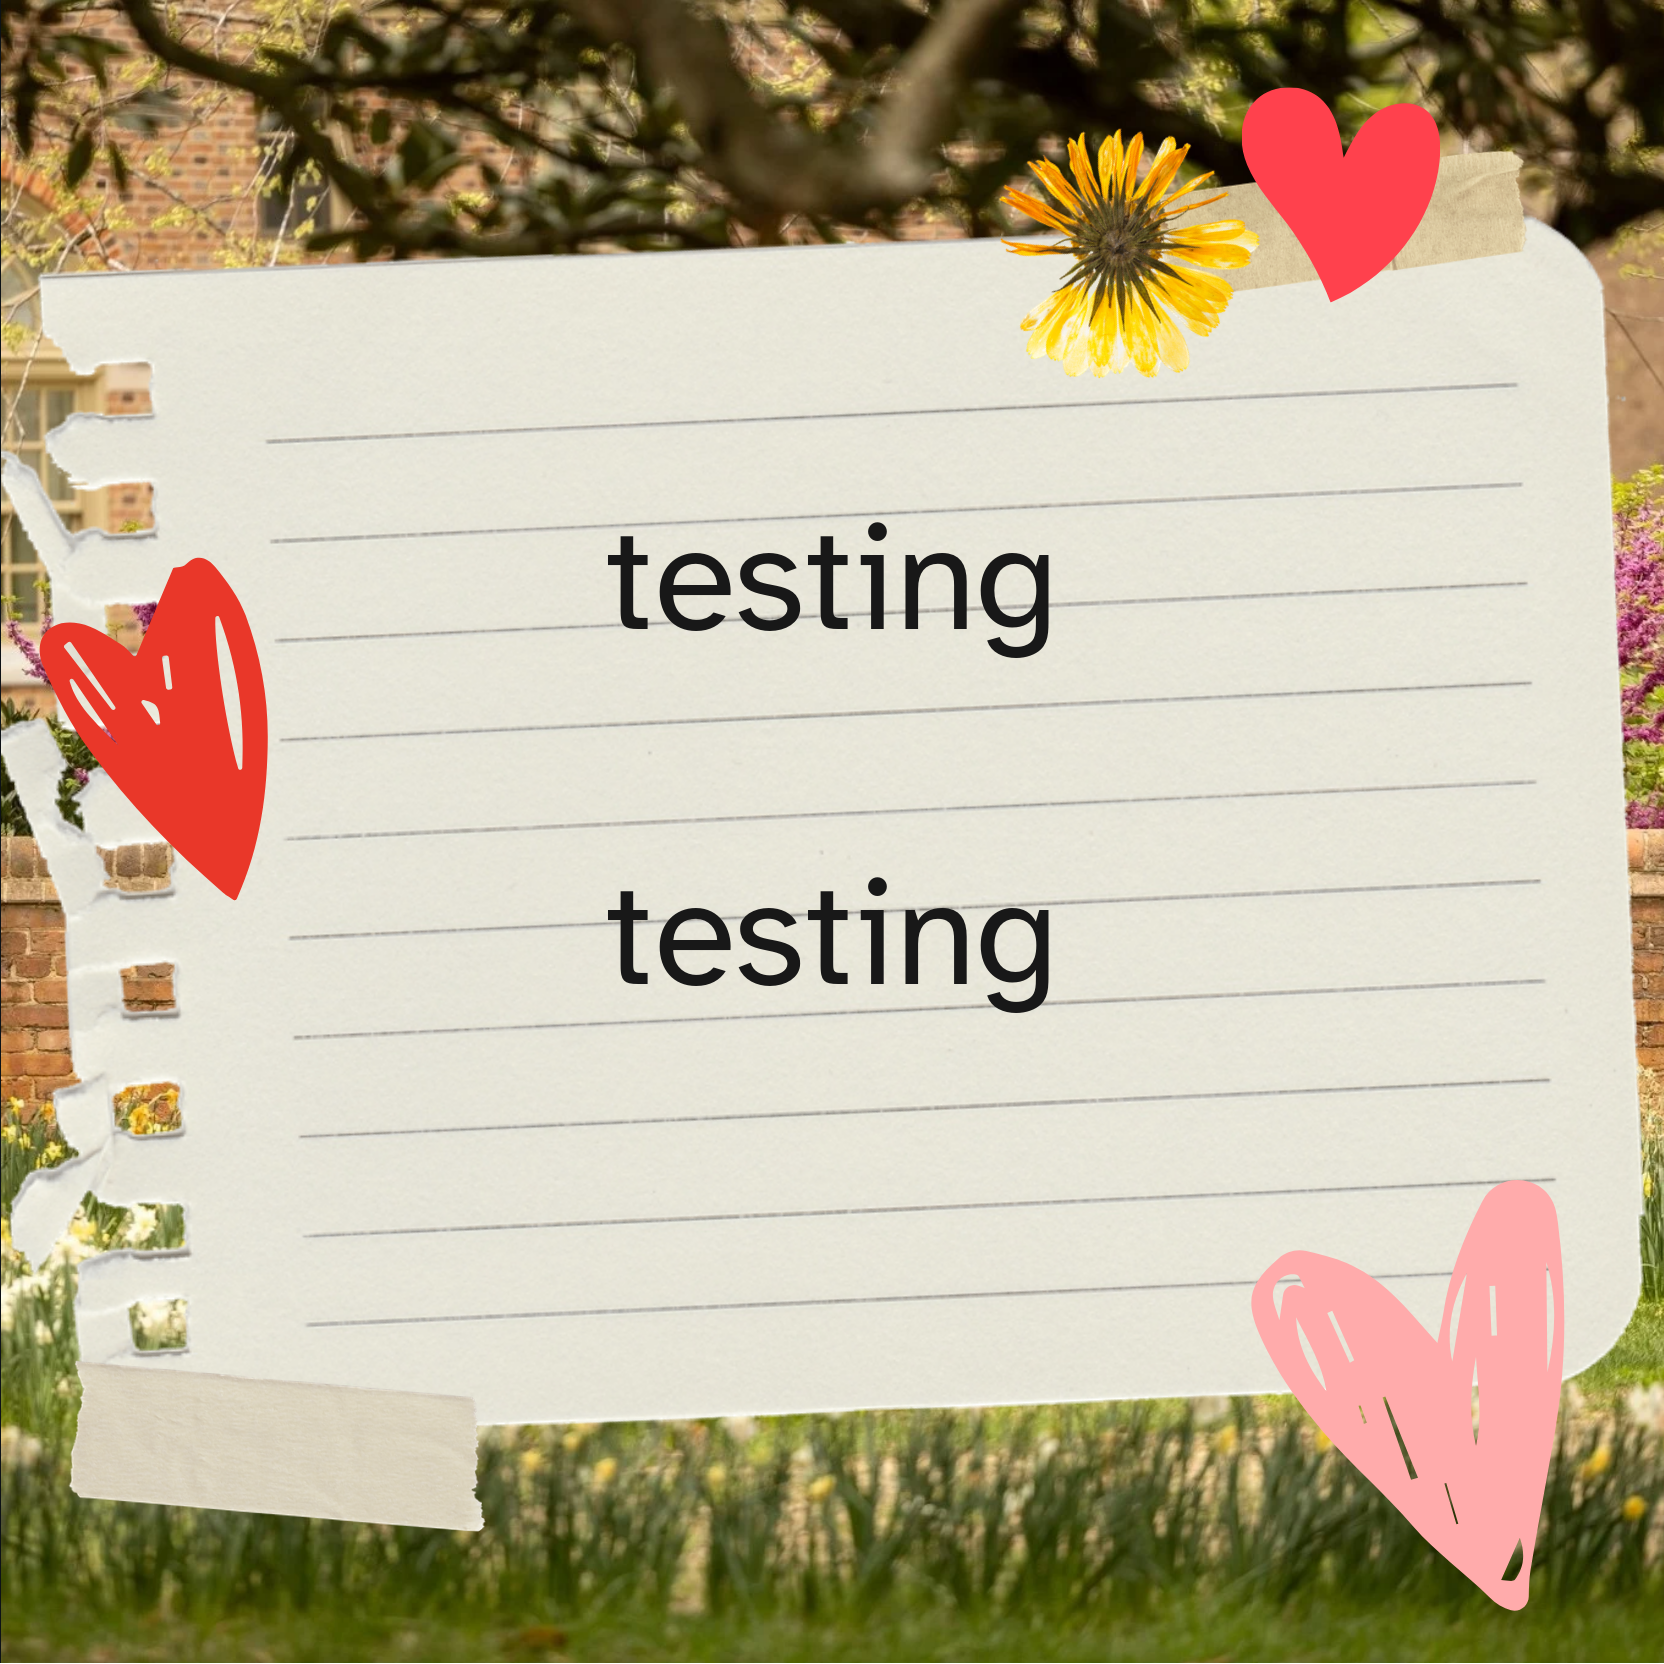
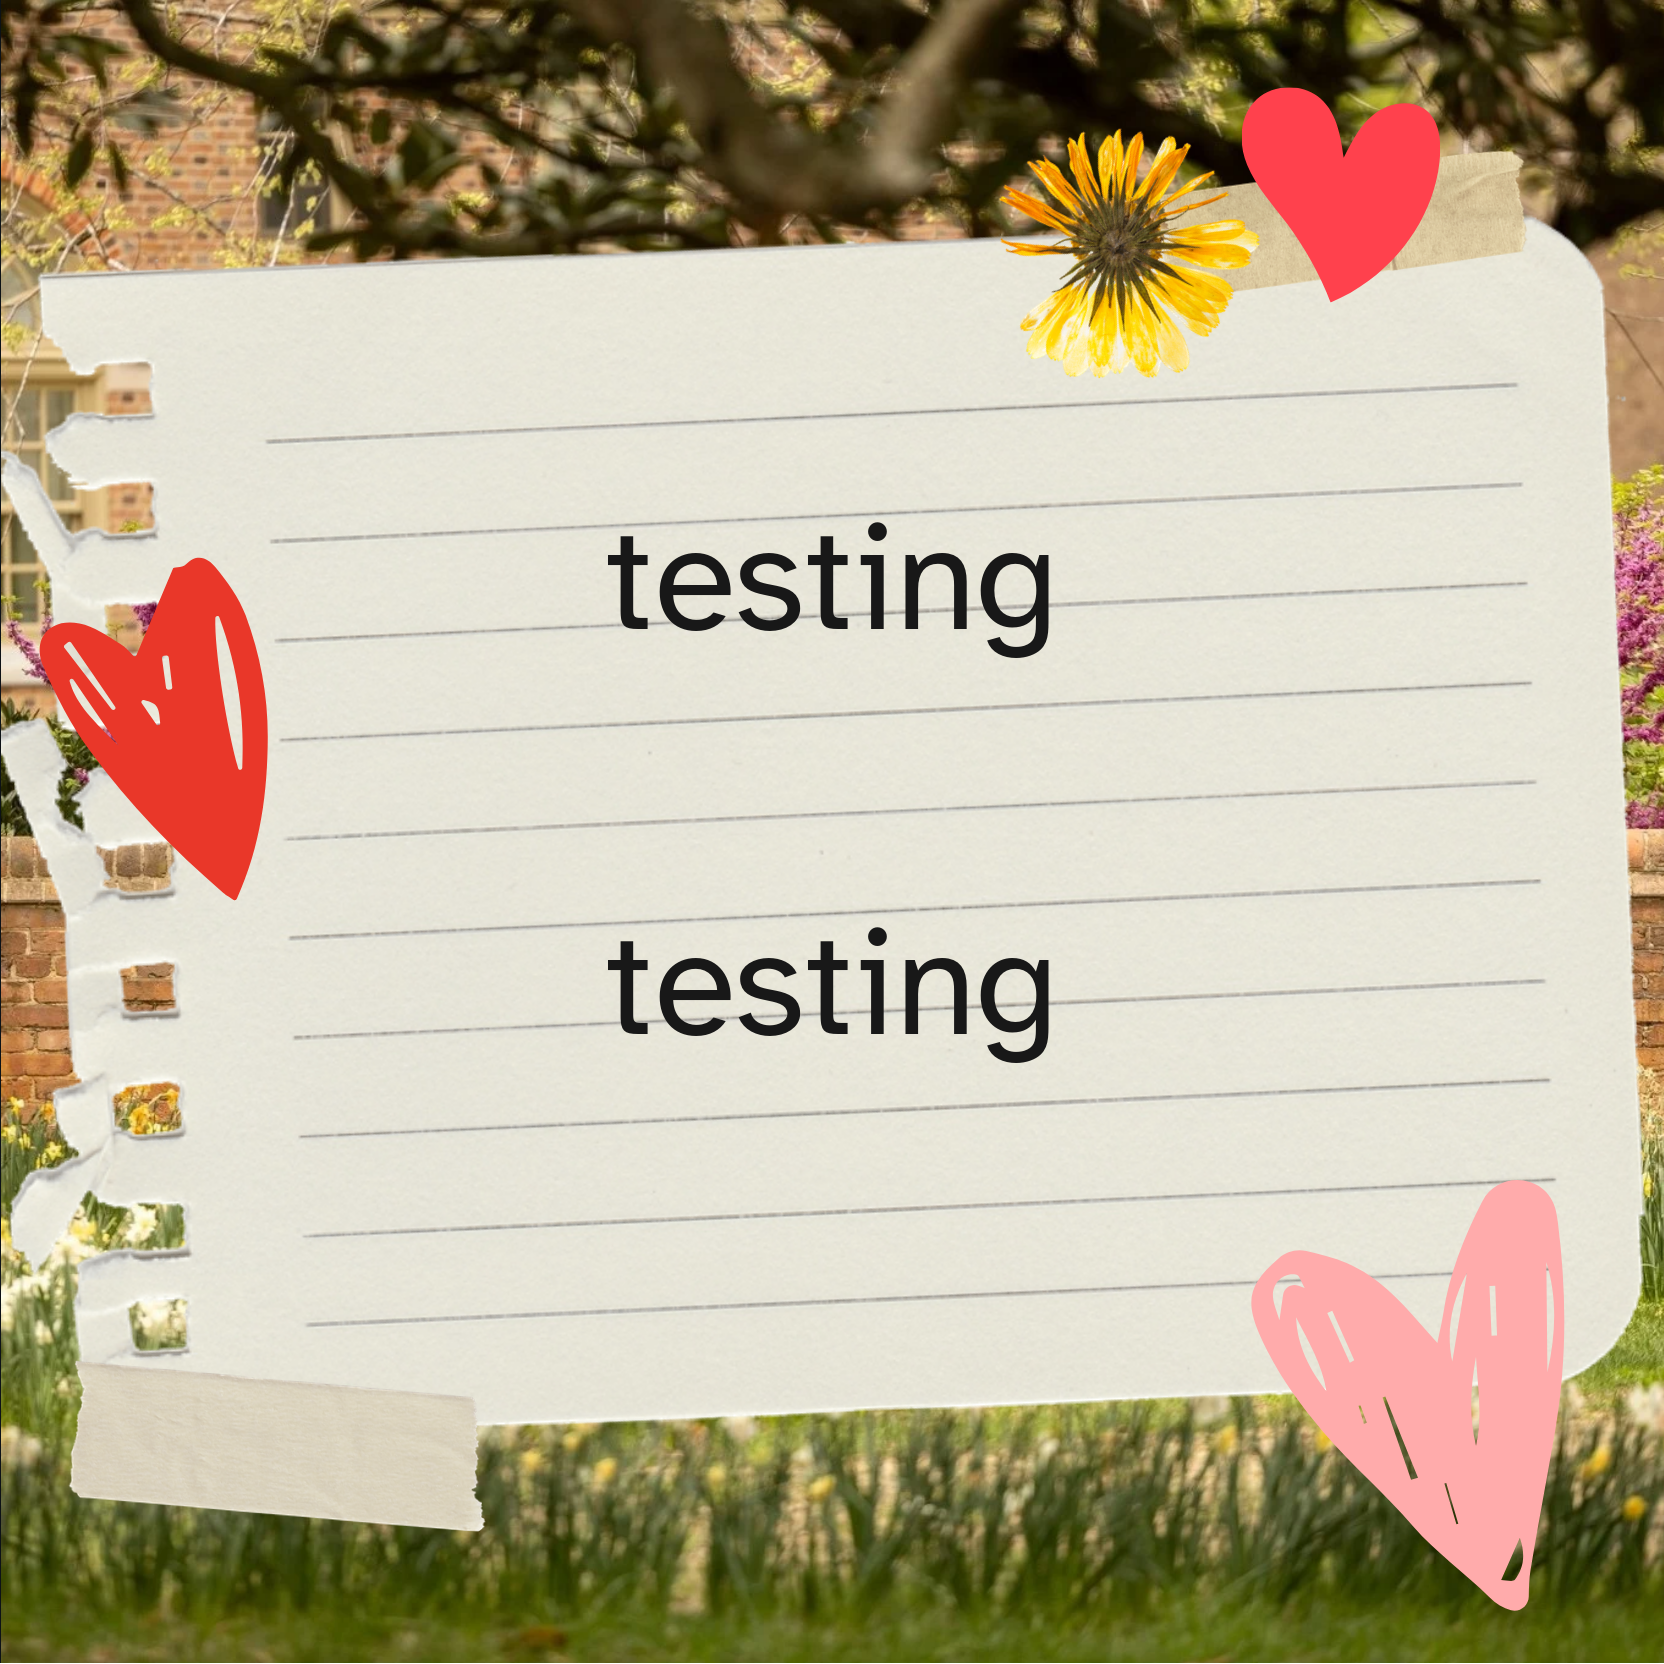
fixed line breaks

Changed region(s): [[0.3438, 0.5312, 0.6562, 0.6562]]

diff --git a/src/imagegen.py b/src/imagegen.py
@@ -3,7 +3,26 @@ from PIL import Image, ImageDraw, ImageFont
 
 # thanks chatgpt
 
-    
+def wrap_text(text, max_length=18):
+    words = text.split()
+    lines = []
+    current_line = ""
+
+    for word in words:
+        # Check if adding the next word would exceed the max length
+        if len(current_line) + len(word) + (1 if current_line else 0) <= max_length:
+            if current_line:
+                current_line += " "
+            current_line += word
+        else:
+            lines.append(current_line)
+            current_line = word
+
+    if current_line:
+        lines.append(current_line)
+
+    return '\n'.join(lines)
+
 def filter():
     """this prevents too long responses from being generated"""
     listnames = getnames()
@@ -12,17 +31,22 @@ def filter():
         if len(name[0]) and len(name[1]) < 19:
             write_text(name,i)
             i+=1
+        elif len(name[0]) < 19:
+            new = []
+            new.append(name[0])
+            new.append(wrap_text(name[1]))
+            write_text(new,i)
+            i+=1
         else:
             print(name)
             print("could not print because it was too long")
-            return
             
 
 def write_text(text,index):
     """this creates the image, great function naming"""
 
     image_size = 1664
-    x, y = 832, 400
+    x, y = 832, 200
     
     try:
         font = ImageFont.truetype("Atkinson-Hyperlegible-Regular-102.otf", size=150)
@@ -32,7 +56,7 @@ def write_text(text,index):
     image = Image.open('resources/template.png')
     draw = ImageDraw.Draw(image)
     output_path = f'output/{str(index)}output_image.png'
-    line_height = 100
+    line_height = 150
         
     bbox = draw.textbbox((0, 0), text[0], font=font)
     text_width = bbox[2] - bbox[0]
@@ -49,7 +73,8 @@ def write_text(text,index):
     y = (image_size - text_height) / 2
 
     y += line_height
-    draw.text((x, y), text[1], fill="#181818", font=font)
+    print(text[1])
+    draw.multiline_text((x, y), text[1], fill="#181818", font=font, spacing=4)
     image.save(output_path)
 
 if __name__ == "__main__":

diff --git a/src/names.py b/src/names.py
@@ -16,13 +16,16 @@ def getnames():
 
     listnames = [tuple(row) for _, row in text_columns.iterrows()]
 
-    wrongI = []
-    for i in range(0,len(listnames)):
-        if len(listnames[i][0]) > 18:
-            wrongI.append(i) 
+    # sorry i had to comment this out because it wasn't working
+    # I've moved all the length stuff into imagegen.py filter function
+    
+    # wrongI = []
+    # for i in range(0,len(listnames)):
+    #     if len(listnames[i][0]) > 18:
+    #         wrongI.append(i) 
 
-    for j in wrongI:
-        listnames.pop(i)
+    # for j in wrongI:
+    #    listnames.pop(i)
 
        
     return listnames
